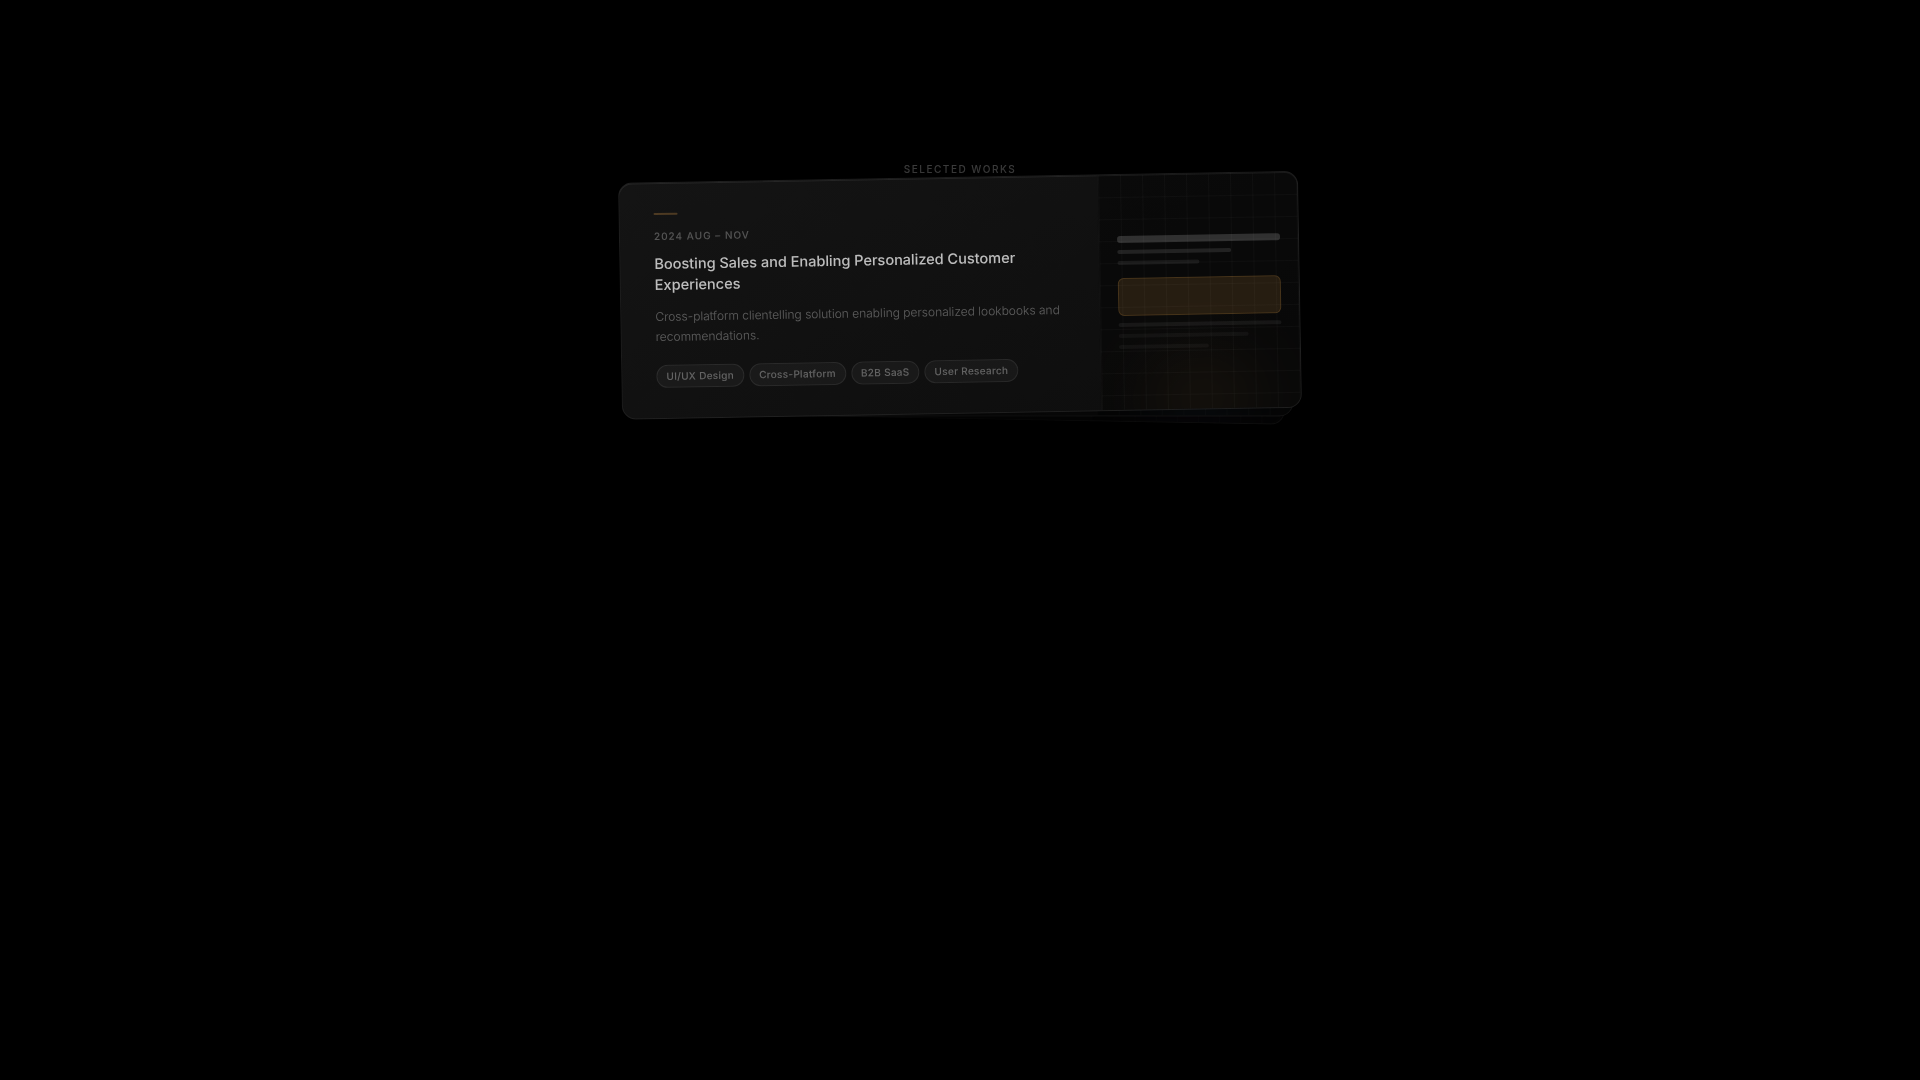
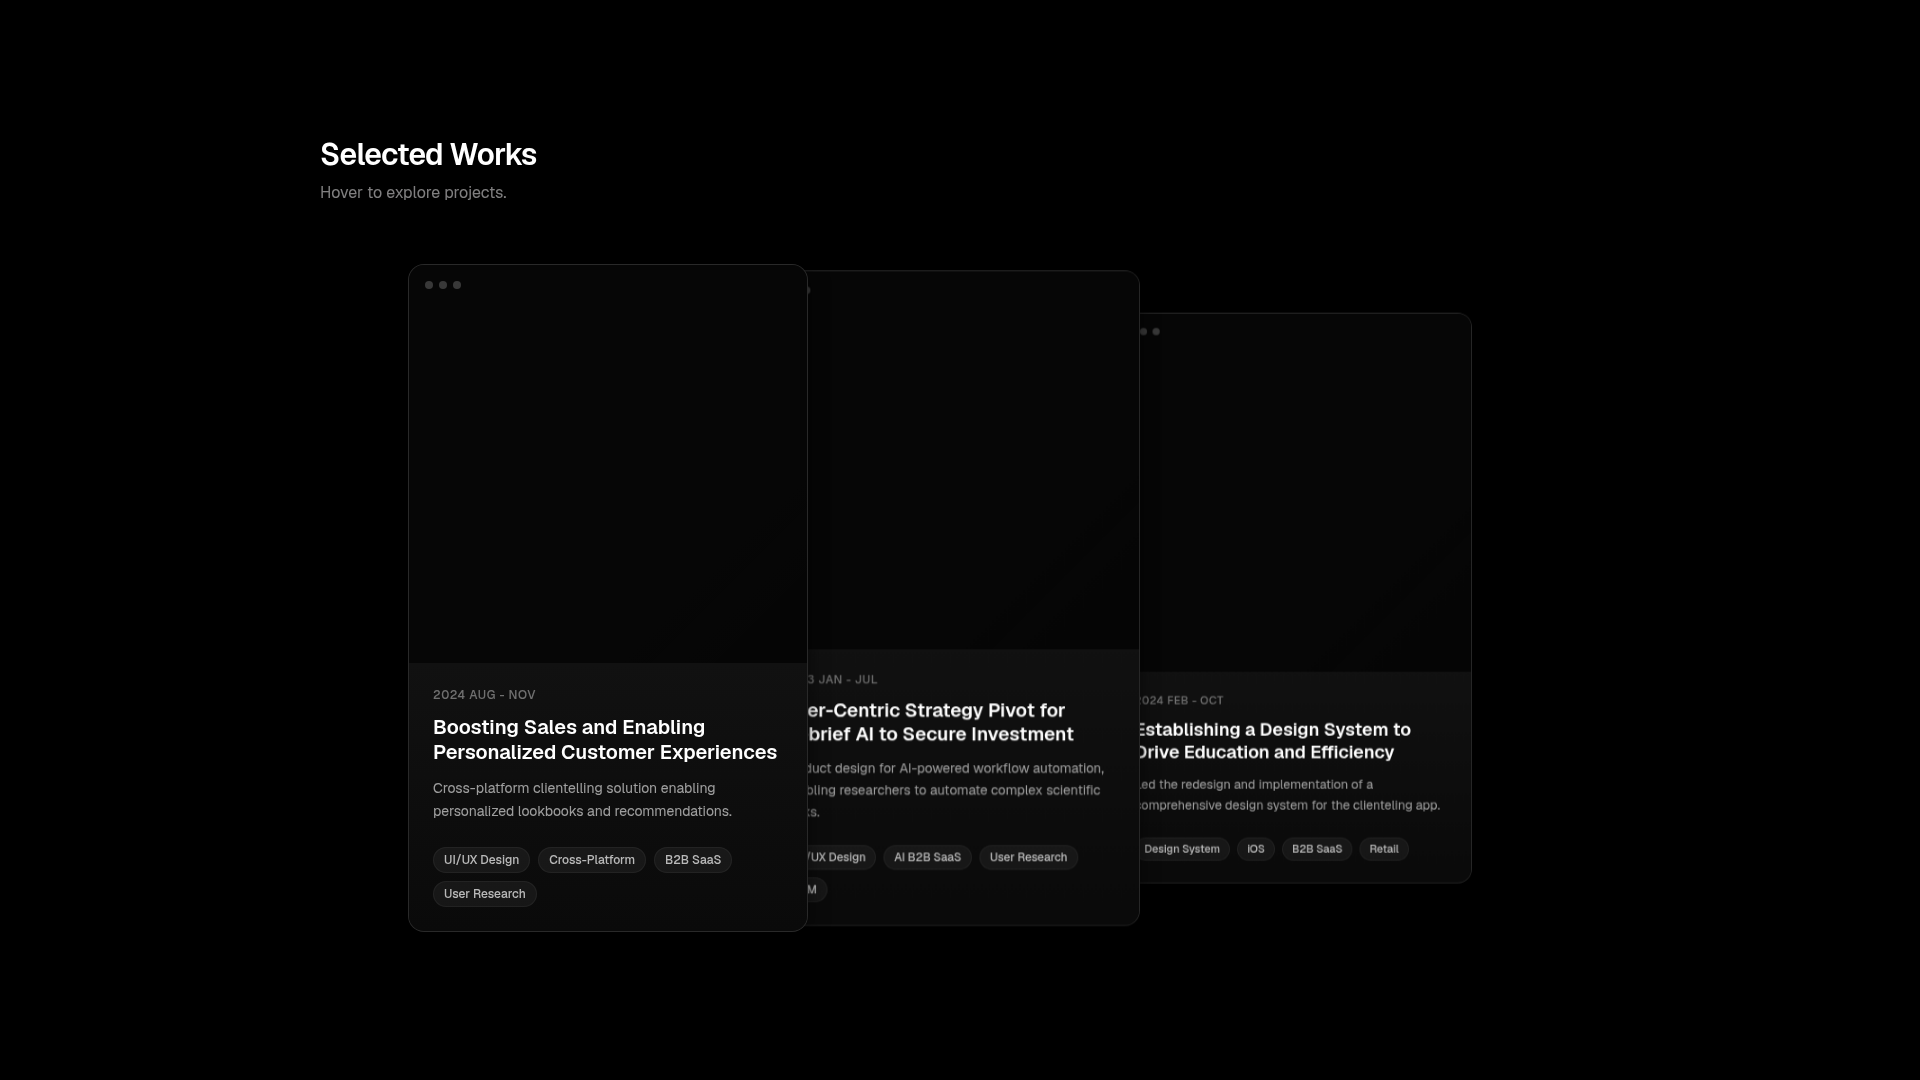
Animate cards to sequentially move into view and then out of frame
Update TiltStack component to implement sequential card animation, where each card enters the center and then exits upwards as the next card appears.

Replit-Commit-Author: Agent
Replit-Commit-Session-Id: c0982322-0e7c-4929-8baf-d1b960be61bd
Replit-Commit-Checkpoint-Type: full_checkpoint
Replit-Commit-Event-Id: 5c0ad3c6-1dae-4950-962a-c02d3e9af7d5
Replit-Commit-Screenshot-Url: https://storage.googleapis.com/screenshot-production-us-central1/5a25a198-8e8f-4f64-b379-6fbe4fcce09e/c0982322-0e7c-4929-8baf-d1b960be61bd/74Dq2Jc
Replit-Helium-Checkpoint-Created: true

diff --git a/artifacts/mockup-sandbox/src/components/mockups/product-cards/TiltStack.tsx b/artifacts/mockup-sandbox/src/components/mockups/product-cards/TiltStack.tsx
@@ -68,33 +68,38 @@ function Card({
     });
   };
 
-  // Stacked: cards nearly on top of each other, tiny peek
-  const stackedY = index * 5;
-  const stackedRot = (index - (TOTAL - 1) / 2) * 1.0;
-  const stackedScale = 1 - index * 0.02;
+  // Sequential relay: each card rises to center, then exits up when next arrives
+  // scroll [0,1] divided into TOTAL equal segments
+  const seg = 1 / TOTAL;
+  const entryStart = index * seg;
+  const entryEnd   = entryStart + seg * 0.55;
+  const exitStart  = entryStart + seg * 0.7;
+  const exitEnd    = entryStart + seg * 1.15;
 
-  // Spread: last card anchored at center, others stack above it
-  const gap = 280;
-  const spreadY = (index - (TOTAL - 1)) * gap;
-  const spreadRot = 0;
-  const spreadScale = 1;
+  const clamp = (v: number) => Math.min(1, Math.max(0, v));
+  const entryT = easeOut(clamp((spread - entryStart) / (entryEnd - entryStart)));
+  const exitT  = index < TOTAL - 1
+    ? easeOut(clamp((spread - exitStart)  / (exitEnd  - exitStart)))
+    : 0; // last card never exits
 
-  // Each card fans out at a different scroll window
-  // Card 0: spread 0→0.33, Card 1: 0.25→0.6, Card 2: 0.5→1
-  const cardStart = index * 0.28;
-  const cardEnd = cardStart + 0.5;
-  const cardT = Math.min(1, Math.max(0, (spread - cardStart) / (cardEnd - cardStart)));
-  const t = easeOut(cardT);
+  // Positions
+  const stackedY  =  20 + index * 6;   // all start just below center, stacked
+  const stackedRot = (index - (TOTAL - 1) / 2) * 1.2;
+  const stackedScale = 1 - index * 0.025;
+  const centerY   =  0;
+  const exitedY   = -780;              // flies off the top
 
-  const currentY = lerp(stackedY, spreadY, t);
-  const currentRot = lerp(stackedRot, spreadRot, t);
-  const currentScale = lerp(stackedScale, spreadScale, t);
+  const baseY     = lerp(stackedY, centerY,  entryT);
+  const currentY  = lerp(baseY,    exitedY,  exitT);
+  const currentRot   = lerp(stackedRot, 0, entryT);
+  const currentScale = lerp(stackedScale, 1, entryT);
 
-  const finalY = currentY + (isHovered ? -14 : 0);
+  const finalY     = currentY + (isHovered ? -14 : 0);
   const finalScale = currentScale * (isHovered ? 1.02 : 1);
-  const finalRot = isHovered ? 0 : currentRot;
-  const finalZ = isHovered ? 50 : TOTAL - index;
-  const finalOpacity = anyHovered && !isHovered ? 0.55 : 1;
+  const finalRot   = isHovered ? 0 : currentRot;
+  const finalZ     = isHovered ? 50 : TOTAL - index;
+  const finalOpacity = (exitT > 0.05) ? Math.max(0, 1 - exitT * 1.4)
+    : anyHovered && !isHovered ? 0.55 : 1;
 
   return (
     <div
